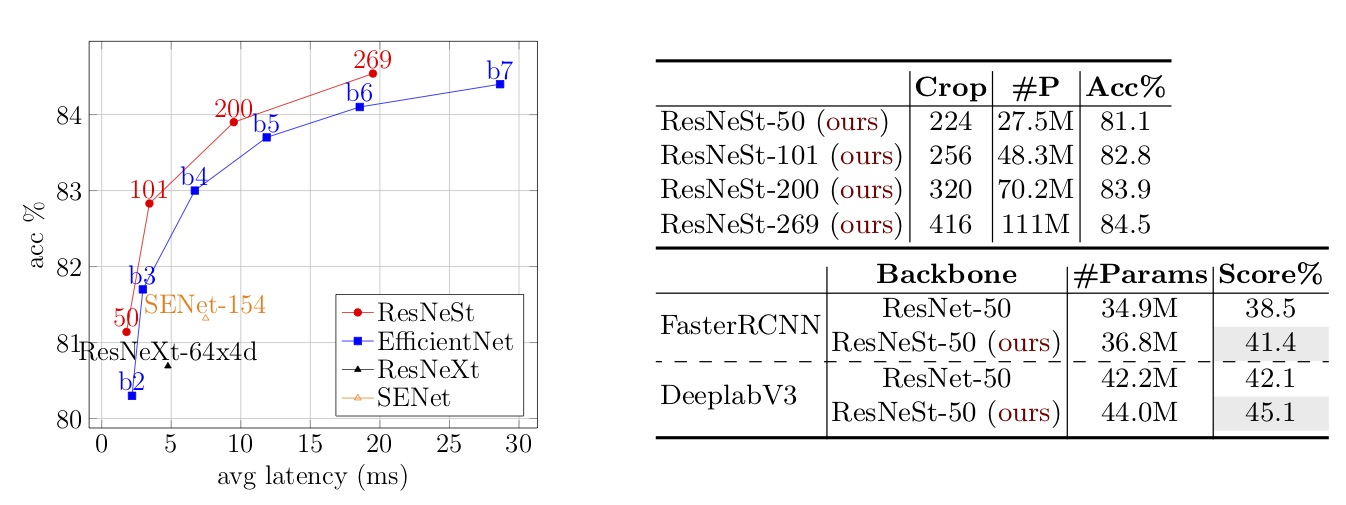
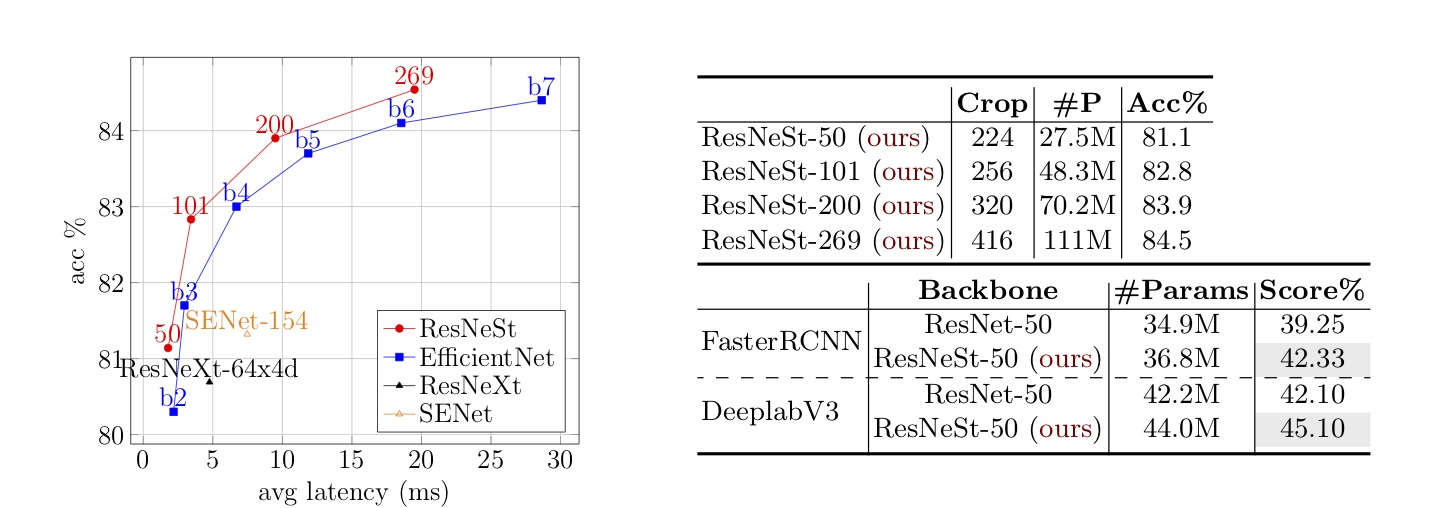
update

diff --git a/README.md b/README.md
@@ -12,7 +12,7 @@ Split-Attention Network, A New ResNet Variant. It significantly boosts the perfo
 ### Table of Contents
 0. [Pretrained Models](#pretrained-models)
 0. [Transfer Learning Models](#transfer-learning-models)
-0. [Verify Models](#verify-models)
+0. [Verify Backbone Models](#verify-backbone-models)
 0. [How to Train](#how-to-train)
 0. [Reference](#reference)
 
@@ -78,7 +78,7 @@ net = resnest50(pretrained=True)
 
 Training code and pretrained models are coming soon.
 
-- Object Detection
+- Object Detection on MS-COCO validation set
 
 
 <table class="tg">
@@ -90,22 +90,22 @@ Training code and pretrained models are coming soon.
   <tr>
     <td rowspan="4" class="tg-0pky">Faster R-CNN</td>
     <td class="tg-0pky">ResNet-50</td>
-    <td class="tg-0pky">38.5</td>
+    <td class="tg-0pky">39.25</td>
   </tr>
   <tr>
     <td class="tg-0lax">ResNet-101</td>
-    <td class="tg-0lax">41.2</td>
+    <td class="tg-0lax">41.37</td>
   </tr>
   <tr>
     <td class="tg-0lax">ResNeSt-50 (<span style="color:red">ours</span>)</td>
-    <td class="tg-0lax"><b>41.4</b></td>
+    <td class="tg-0lax"><b>42.33</b></td>
   </tr>
   <tr>
     <td class="tg-0lax">ResNeSt-101 (<span style="color:red">ours</span>)</td>
-    <td class="tg-0lax"><b>43.8</b></td>
+    <td class="tg-0lax"><b>44.72</b></td>
   </tr>
   <tr>
-    <td rowspan="4" class="tg-0lax">Cascade R-CNN</td>
+    <td rowspan="5" class="tg-0lax">Cascade R-CNN</td>
     <td class="tg-0lax">ResNet-50</td>
     <td class="tg-0lax">42.52</td>
   </tr>
@@ -119,7 +119,11 @@ Training code and pretrained models are coming soon.
   </tr>
   <tr>
     <td class="tg-0lax">ResNeSt-101 (<span style="color:red">ours</span>)</td>
-    <td class="tg-0lax"><b>47.5</b></td>
+    <td class="tg-0lax"><b>47.50</b></td>
+  </tr>
+  <tr>
+    <td class="tg-0lax">ResNeSt-200 (<span style="color:red">ours</span>)</td>
+    <td class="tg-0lax"><b>49.03</b></td>
   </tr>
 </table>
 
@@ -179,8 +183,6 @@ Training code and pretrained models are coming soon.
 
 ### Semantic Segmentation
 
-Training code and pretrained models are coming soon.
-
 - Results on ADE20K
 
 <table class="tg">
@@ -213,7 +215,10 @@ Training code and pretrained models are coming soon.
   </tr>
 </table>
 
-## Verify Models:
+- PyTorch Models: Please visit PyTorch Encoding Toolkit.
+- Training with Gluon: Please visit GluonCV Toolkit.
+
+## Verify Backbone Models:
 
 **Note:** the inference speed reported in the paper are tested using Gluon implementation with RecordIO data.
 
@@ -245,7 +250,8 @@ python verify.py --model resnest50 --crop-size 224
 
 ## How to Train
 
-Coming Soon.
+- Training with Gluon: Please visit GluonCV Toolkit.
+- Training with PyTorch: Please visit PyTorch Encoding Toolkit (slightly worse than Gluon implementation).
 
 ## Reference
 
